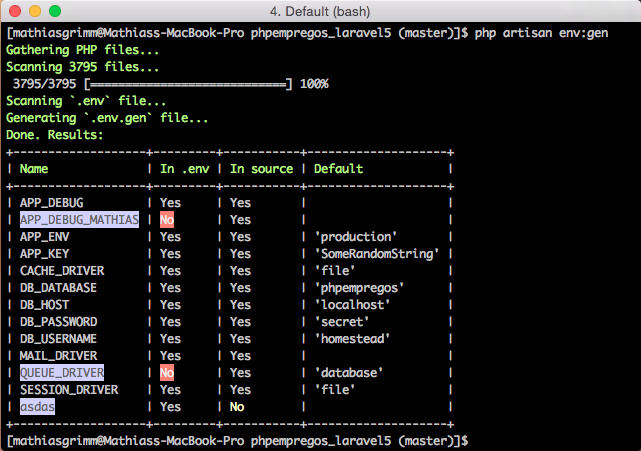
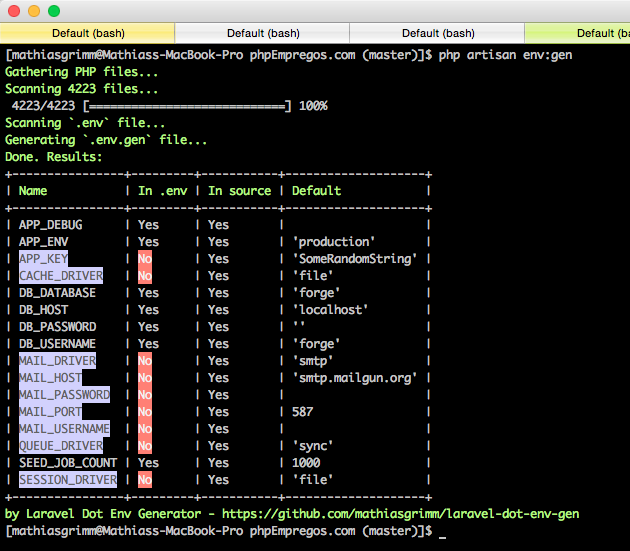
doc. screenshot. adding brand info

Changed region(s): [[0.0, 0.0, 1.0, 1.0], [0.9952, 0.9933, 1.0, 1.0]]

diff --git a/src/DotEnvGenCommand.php b/src/DotEnvGenCommand.php
@@ -62,6 +62,8 @@ class DotEnvGenCommand extends Command
         $this->generateFile();
         $this->info('Done. Results:');
         $this->showResults();
+
+        $this->info("by Laravel Dot Env Generator - https://github.com/mathiasgrimm/laravel-dot-env-gen");
     }
 
     protected function gatherFiles()

diff --git a/README.md b/README.md
@@ -1,4 +1,4 @@
-# laravel-dot-env-gen
+# Laravel Dot Env Generator
 A Laravel 5 command that generates a `.env.gen` file containing all environment
 variables defined in `.env` as well as any undefined variables that are being
 used throughout the project.
